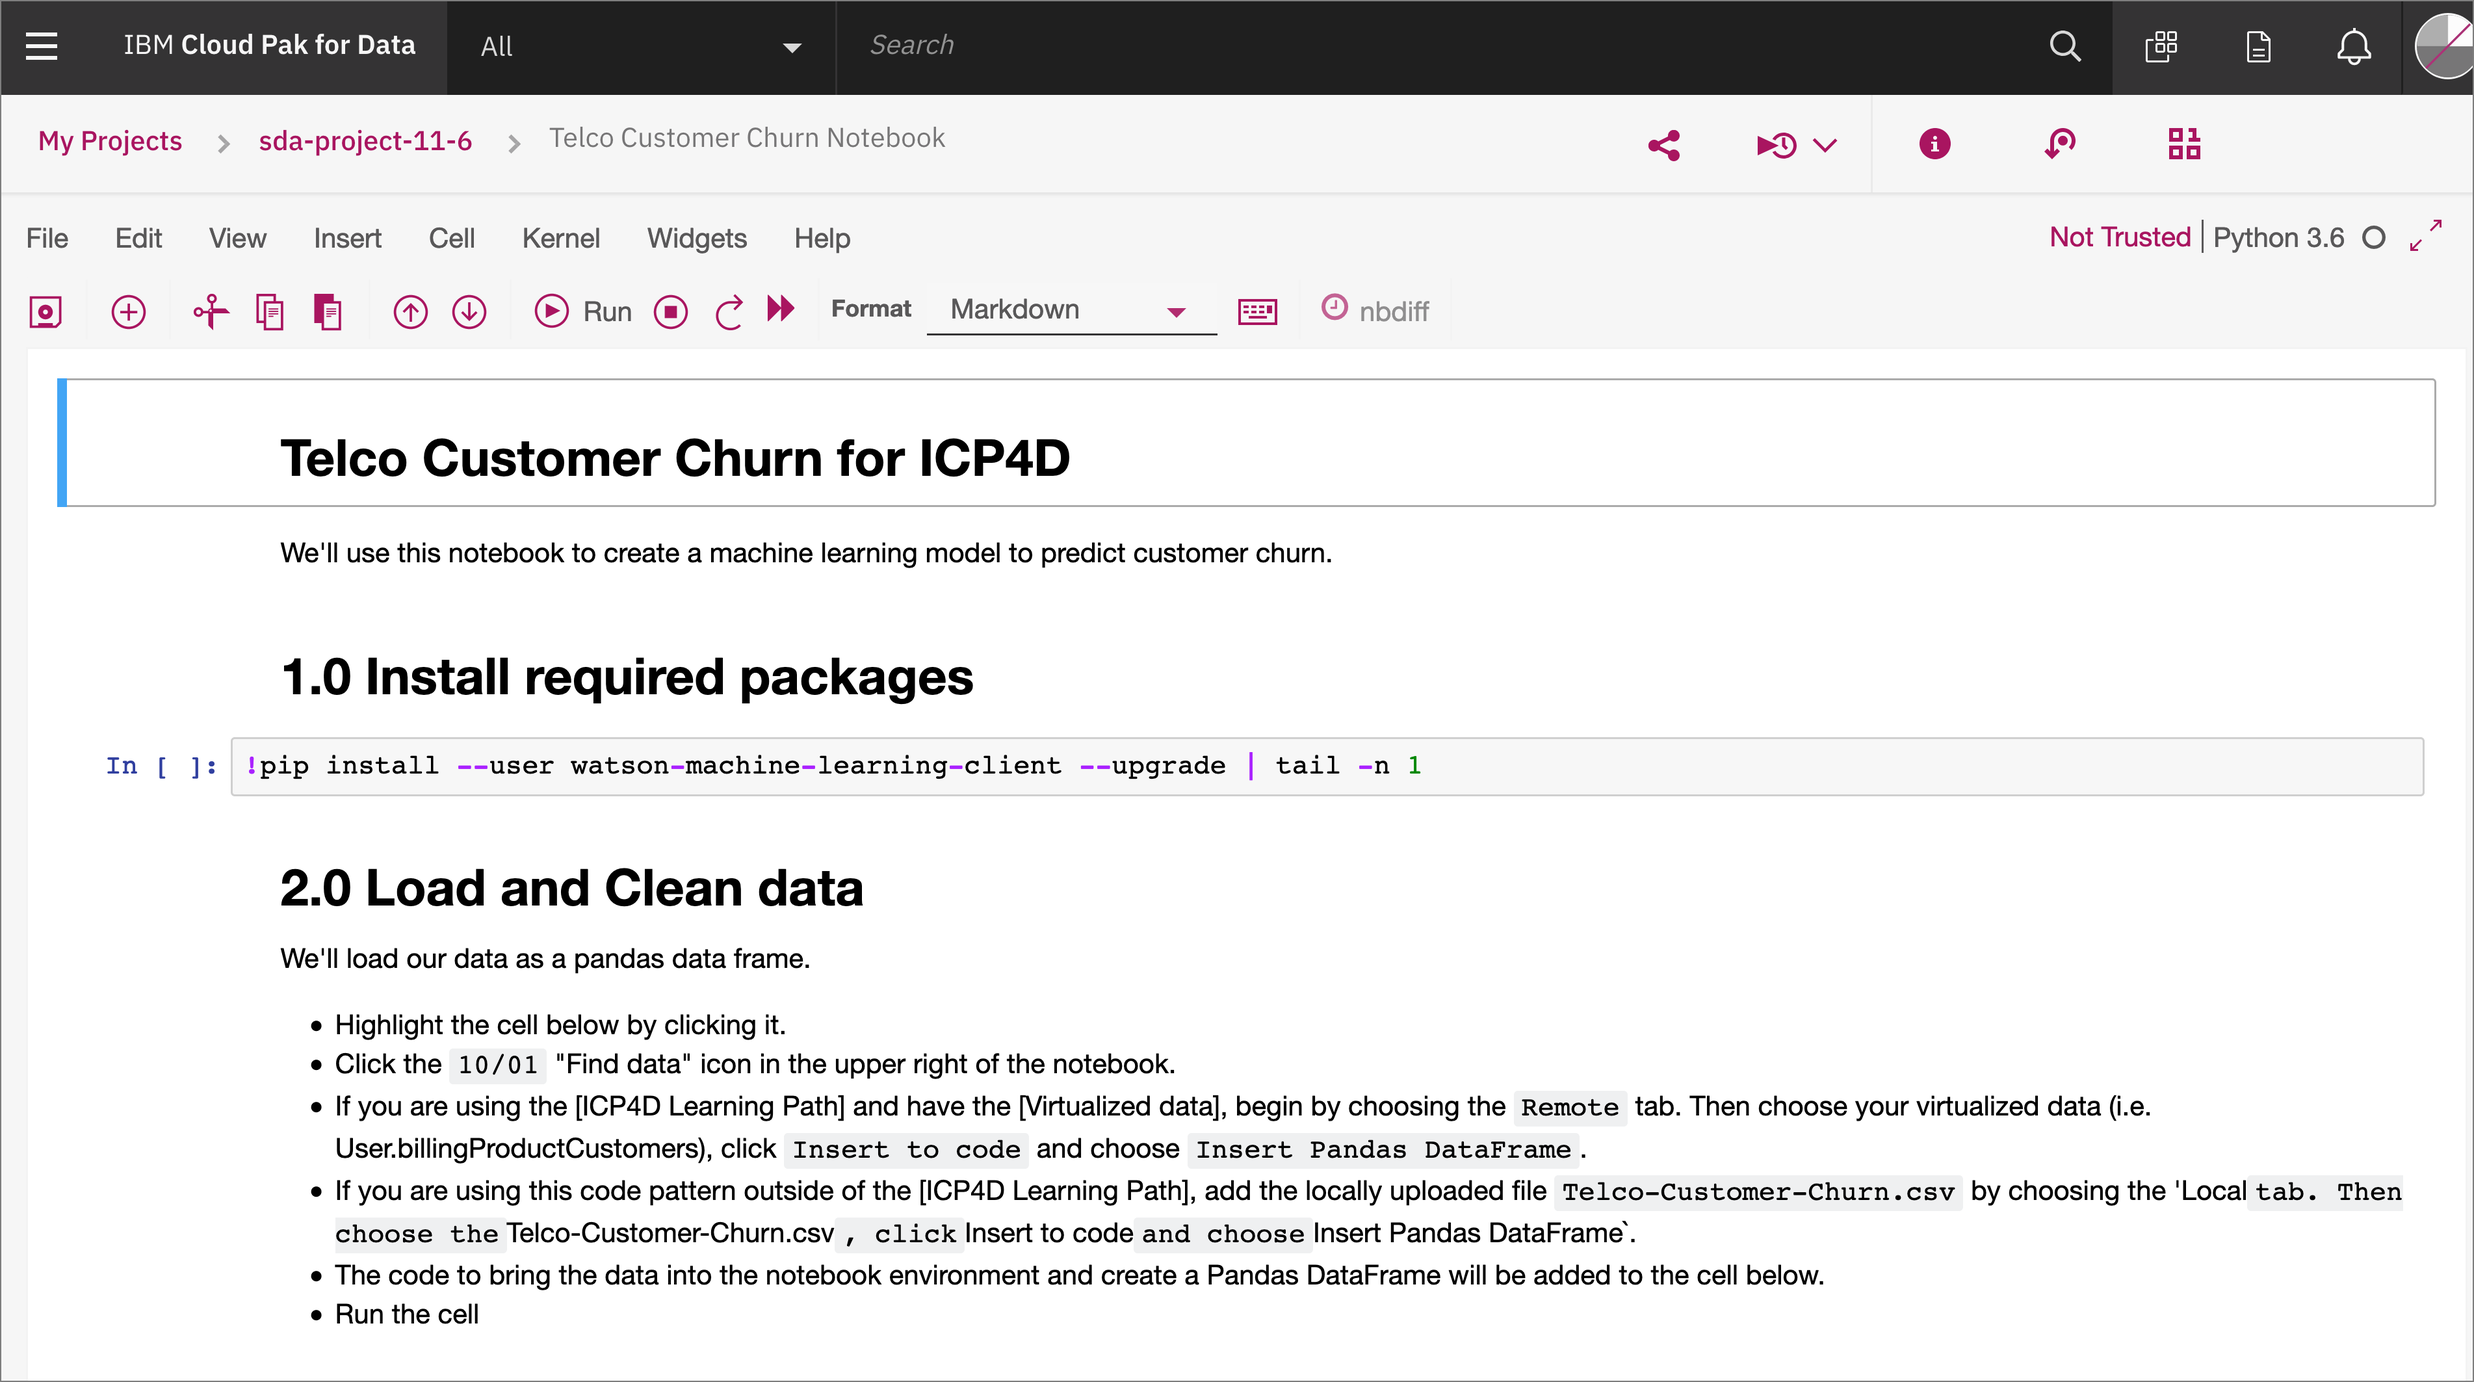
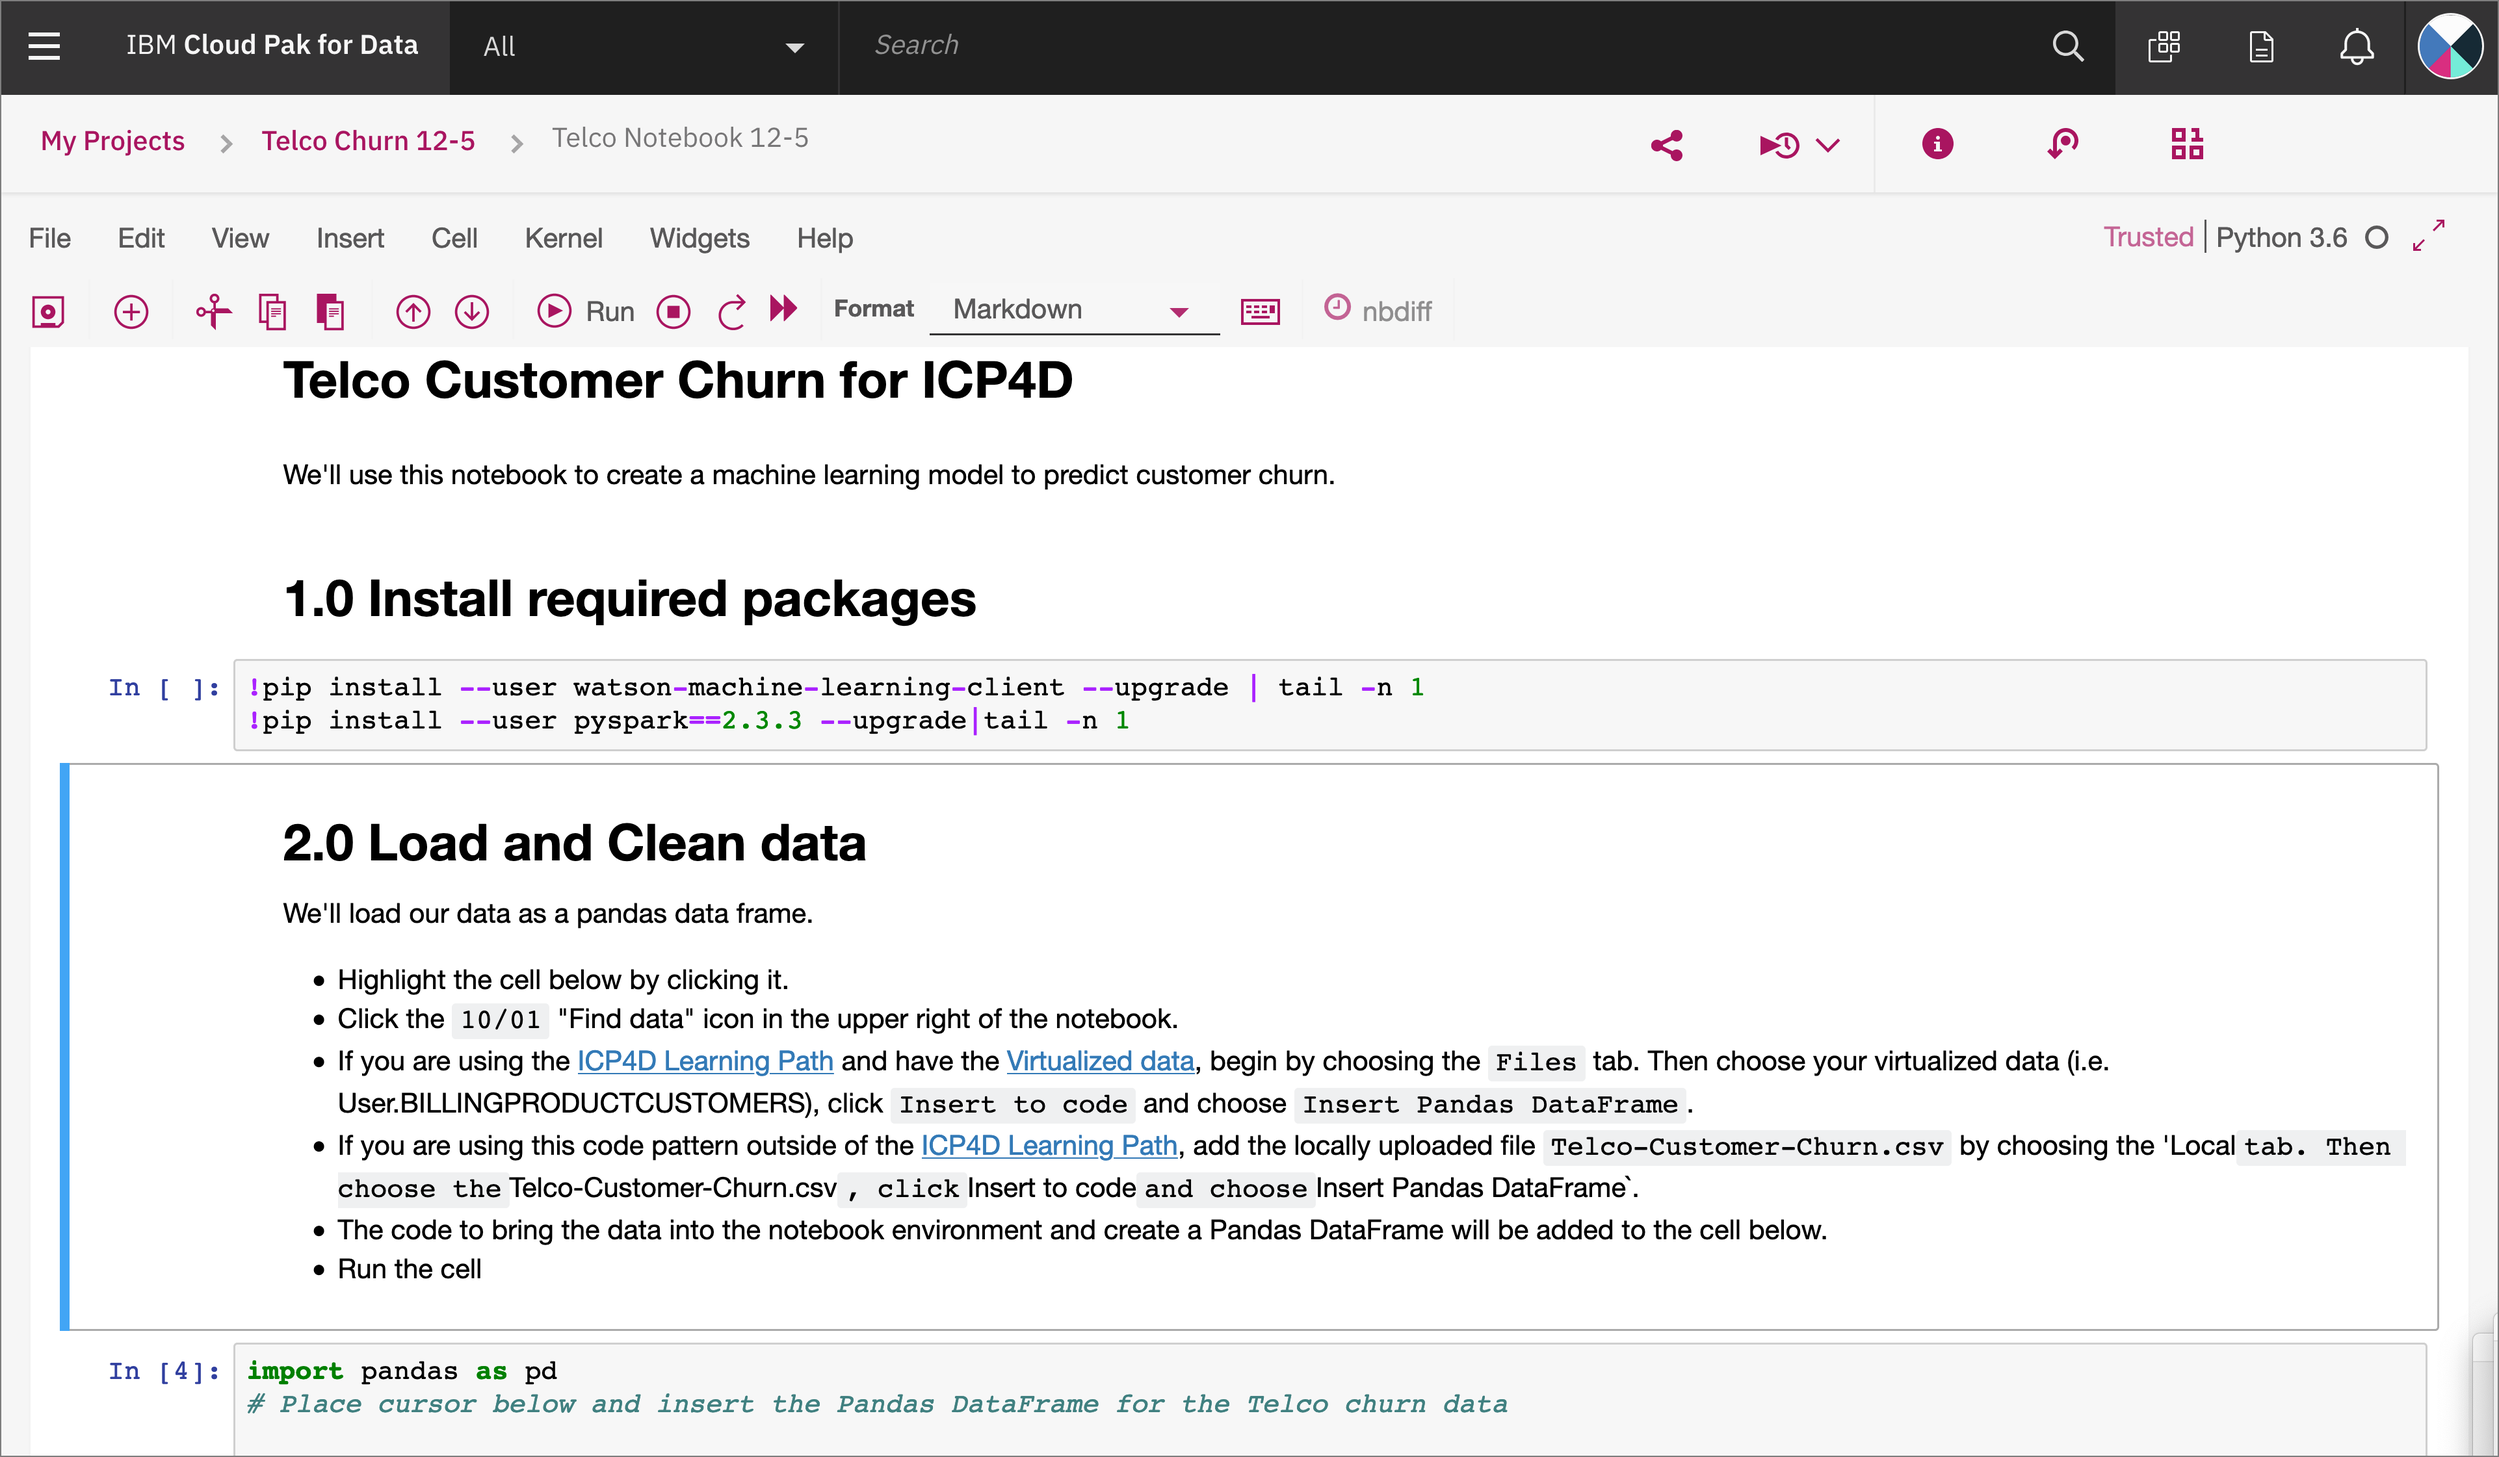
Updates to Telco ML model.
Add new TOKEN info to env.sample for flaskapp
Update images and docs for CPD 2.5
Update notebook with better instructions for virtualized
vs. non-virtualized.
Rename WA_Fn-UseC_-Telco-Customer-Churn.csv to
Telco-Customer-Churn.csv

diff --git a/workshop/exercise-3/README.md b/workshop/exercise-3/README.md
@@ -36,7 +36,7 @@ When the Jupyter notebook is loaded and the kernel is ready then we can start ex
 
 ### Run the notebook
 
-> **Important**: *Make sure that you stop the kernel of your notebook(s) when you are done, in order to prevent leaking of memory resources!*
+> **Important**: *Make sure that you stop the kernel of your notebook(s) when you are done, in order to prevent conserve resources!*
 
 ![Stop kernel](../.gitbook/assets/images/wml/JupyterStopKernel.png)
 
@@ -52,8 +52,8 @@ Section `2.0 Load and Clean data` will load the virtualized data from the previo
 
 * Highlight the cell below by clicking it.
 * Click the 10/01 "Find data" icon in the upper right of the notebook.
-* If you are using [Virtualized data], begin by choosing the `Files` tab. Then choose your virtualized data (i.e. User999.billingProductCustomers), click Insert to code and choose Insert Pandas DataFrame.
-* If you are using this code pattern without virtualized data, add the locally uploaded file WA_Fn-UseC_-Telco-Customer-Churn.csv by choosing the `Files` tab. Then choose the `WA_Fn-UseC_-Telco-Customer-Churn.csv` file. Click `Insert to code` and choose `Insert Pandas DataFrame`.
+* If you are using [Virtualized data](https://github.com/IBM/cloudpakfordata-telco-churn-workshop/blob/master/workshop/exercise-1/README.md), begin by choosing the `Files` tab. Then choose your virtualized data (i.e. User999.BILLINGPRODUCTCUSTOMERS), click Insert to code and choose Insert Pandas DataFrame.
+* If you are using this notebook without virtualized data, add the locally uploaded file Telco-Customer-Churn.csv by choosing the `Files` tab. Then choose the `Telco-Customer-Churn.csv` file. Click `Insert to code` and choose `Insert Pandas DataFrame`.
 * The code to bring the data into the notebook environment and create a Pandas DataFrame will be added to the cell below.
 * Run the cell
 
@@ -63,7 +63,7 @@ By adding data a block of code will be added to the notebook. The code will auto
 
 ![Generated code to handle Pandas DataFrame](../.gitbook/assets/images/wml/wml-5-generated-code-dataframe.png)
 
-> **IMPORTANT**: Don't forget to update the next cell `df = df_data_1` or `df_data_X` depending on your number `X` for the variable from the generated code.
+> **IMPORTANT**: Don't forget to update the next cell to assign the `df` variable. In the case of Virtualized data, it will look like `df=data_df_1`, `data_df_2`, etc. For a locally uploaded file, it will look like `df=df_data_1` or `df_data_X` depending on your number `X` for the variable from the generated code.
 
 Continue to run the remaining cells in the section to clean the data.
 
@@ -87,7 +87,7 @@ Continue to run the remaining cells in the section to save the model to Cloud Pa
 
 We've successfully built and deployed a machine learning model. Congratulations!
 
-## 2. Deploy the model
+## 2. Deploying the model
 
 Navigate to the left-hand (☰) hamburger menu and choose `Analyze` -> `Analytics deployments`:
 
@@ -173,6 +173,8 @@ Click `Predict` and the model will be called with the input data. The results wi
 ![Testing the deployed model](../.gitbook/assets/images/wml/TestingDeployedModel.png)
 
 ### Test the deployed model with cURL
+
+> NOTE: Windows users will need the *cURL* command. It's recommended to [download gitbash](https://gitforwindows.org/) for this, as you'll also have other tools and you'll be able to easily use the shell environment variables in the following steps.
 
 In a terminal window, run the following to get a token to access the API. Use your CP4D cluster `username` and `password`:
 
@@ -261,8 +263,12 @@ Edit `.env` to reference the `URL` and `TOKEN`.
 URL=
 
 # Required: Provide your web service deployment access token.
-#           This TOKEN should start with "Bearer ".
-# E.g., TOKEN=Bearer abCdwFg.fgH1r2... (and so on, tokens are long).
+#           This TOKEN will be the part after `accessToken`. So, your
+#           json string will look like:
+#           {"username":"scottda","role":"Admin","permissions":["administrator","can_provision","manage_catalog","virtualize_transform","access_catalog"],"sub":"scottda","iss":"KNOXSSO","aud":"DSX","uid":"1000331001","authenticator":"default","accessToken":"eyJhbGciOiJSUzI1NiIsInR5cCI6IkpXVCJ9.eyJ1c2 <snip> neQ","_messageCode_":"success","message":"success"}
+# The value for `TOKEN=` below will be:
+#    TOKEN=eyJhbGciOi <snip> neQ
+
 TOKEN=
 ```
 

diff --git a/workshop/exercise-0/README.md b/workshop/exercise-0/README.md
@@ -127,7 +127,11 @@ Click on *New project*
 
 ![Start a new project](../.gitbook/assets/images/manage/cpd-new-project.png)
 
-Create a new project, choose `Analytics project`, give it a unique name, and click *OK. Click `Create` on the next screen.
+Click on the top tile for `Create an empty project`:
+
+![Create an empty project](../.gitbook/assets/images/manage/cpd-create-empty-project.png)
+
+Give the project a unique name and click `Create`:
 
 ![Pick a name](../.gitbook/assets/images/manage/cpd-new-project-name.png)
 
@@ -137,7 +141,7 @@ Go the (☰) menu and click `Analyze` -> `Analytics deployments`:
 
 ![(☰) Menu -> Analytics deployments](../.gitbook/assets/images/manage/ChooseAnalyticsDeployments.png)
 
-Click on `+ New deployment space):
+Click on `+ New deployment space`):
 
 ![Add New deployment space](../.gitbook/assets/images/manage/addNewDeploymentSpace.png)
 
